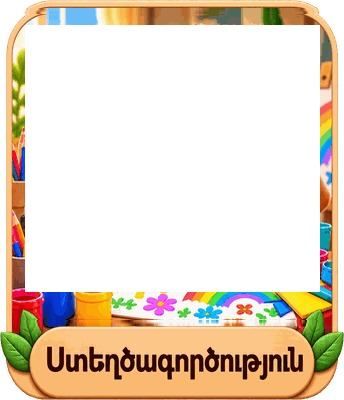
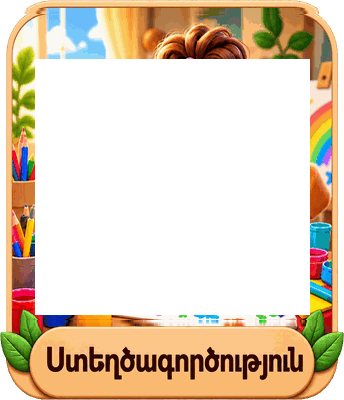
Add files via upload

Changed region(s): [[0.0581, 0.06, 0.9302, 0.81]]

diff --git a/index.html b/index.html
@@ -53,7 +53,7 @@
   </style>
 
 
-  <style id="areg-v27-final-layout">
+  <style id="areg-v28-final-layout">
     /* V18 FINAL: exact equal-size 2x2 section grid */
     .nature-card,.space-card,.mind-card,.create-card{width:344px!important;height:400px!important;}
     .nature-card{left:9px!important;top:260px!important;}
@@ -74,32 +74,32 @@
   <main id="homeScreen" class="screen screen--active" aria-label="Գլխավոր ընտրացանկ">
     <div id="designStage" class="design-stage" role="application" aria-label="Արեգ 3D աշխարհ">
       <button id="avatarButton" class="asset-button avatar-button" aria-label="Փոխել կերպարի նկարը">
-        <img class="asset-img" src="avatar-frame.png?v=27" alt="" draggable="false" />
+        <img class="asset-img" src="avatar-frame.png?v=28" alt="" draggable="false" />
         <img id="savedAvatar" class="saved-avatar" alt="Ընտրված նկար" draggable="false" hidden />
       </button>
 
-      <img class="logo asset-img" src="logo.png?v=27" alt="Արեգ 3D աշխարհ" draggable="false" />
+      <img class="logo asset-img" src="logo.png?v=28" alt="Արեգ 3D աշխարհ" draggable="false" />
 
       <button id="starCounter" class="asset-button star-counter" aria-label="120 աստղ">
-        <img class="asset-img" src="star-counter.png?v=27" alt="120 աստղ" draggable="false" />
+        <img class="asset-img" src="star-counter.png?v=28" alt="120 աստղ" draggable="false" />
       </button>
 
       <button id="settingsButton" class="asset-button settings-button" aria-label="Կարգավորումներ">
-        <img class="asset-img" src="settings.png?v=27" alt="" draggable="false" />
+        <img class="asset-img" src="settings.png?v=28" alt="" draggable="false" />
       </button>
 
       <button class="section-card nature-card" data-section="nature" aria-label="Բնություն">
-        <img class="asset-img" src="nature.png?v=27" alt="Բնություն" draggable="false" />
+        <img class="asset-img" src="nature.png?v=28" alt="Բնություն" draggable="false" />
         <span class="card-layer nature-deer-head" aria-hidden="true"></span>
         <span class="card-layer nature-bird" aria-hidden="true"></span>
         <span class="card-fx nature-glint nature-glint-a" aria-hidden="true"></span>
         <span class="card-fx nature-glint nature-glint-b" aria-hidden="true"></span>
         <span class="nature-water-shimmer" aria-hidden="true"></span>
-        <img class="frame-guard" src="nature-frame-guard.png?v=27" alt="" aria-hidden="true" draggable="false" />
+        <img class="frame-guard" src="nature-frame-guard.png?v=28" alt="" aria-hidden="true" draggable="false" />
         <span class="card-shine-mask" aria-hidden="true"><span class="card-shine-band"></span></span>
       </button>
       <button class="section-card space-card" data-section="space" aria-label="Տիեզերք">
-        <img class="asset-img" src="space.png?v=27" alt="Տիեզերք" draggable="false" />
+        <img class="asset-img" src="space.png?v=28" alt="Տիեզերք" draggable="false" />
         <span class="card-layer space-earth" aria-hidden="true"></span>
         <span class="card-layer space-saturn" aria-hidden="true"></span>
         <span class="card-layer space-astronaut" aria-hidden="true"></span>
@@ -107,42 +107,39 @@
         <span class="space-twinkle st1" aria-hidden="true"></span>
         <span class="space-twinkle st2" aria-hidden="true"></span>
         <span class="space-twinkle st3" aria-hidden="true"></span>
-        <img class="frame-guard" src="space-frame-guard.png?v=27" alt="" aria-hidden="true" draggable="false" />
+        <img class="frame-guard" src="space-frame-guard.png?v=28" alt="" aria-hidden="true" draggable="false" />
         <span class="card-shine-mask" aria-hidden="true"><span class="card-shine-band"></span></span>
       </button>
       <button class="section-card mind-card" data-section="mind" aria-label="Մտքի խաղեր">
-        <img class="asset-img" src="mind.png?v=27" alt="Մտքի խաղեր" draggable="false" />
-        <span class="mind-bulb-glow" aria-hidden="true"></span>
-        <span class="card-layer mind-bulb" aria-hidden="true"></span>
+        <img class="asset-img" src="mind.png?v=28" alt="Մտքի խաղեր" draggable="false" />
         <span class="card-layer mind-blocks" aria-hidden="true"></span>
         <span class="mind-thought-dot md1" aria-hidden="true"></span>
         <span class="mind-thought-dot md2" aria-hidden="true"></span>
-        <img class="frame-guard" src="mind-frame-guard.png?v=27" alt="" aria-hidden="true" draggable="false" />
+        <img class="frame-guard" src="mind-frame-guard.png?v=28" alt="" aria-hidden="true" draggable="false" />
         <span class="card-shine-mask" aria-hidden="true"><span class="card-shine-band"></span></span>
       </button>
       <button class="section-card create-card" data-section="create" aria-label="Ստեղծագործություն">
-        <img class="asset-img" src="create.png?v=27" alt="Ստեղծագործություն" draggable="false" />
-        <span class="card-layer create-brush" aria-hidden="true"></span>
+        <img class="asset-img" src="create.png?v=28" alt="Ստեղծագործություն" draggable="false" />
         <span class="card-layer create-dog" aria-hidden="true"></span>
         <span class="create-paint-spark cp1" aria-hidden="true"></span>
         <span class="create-paint-spark cp2" aria-hidden="true"></span>
         <span class="create-rainbow-glow" aria-hidden="true"></span>
-        <img class="frame-guard" src="create-frame-guard.png?v=27" alt="" aria-hidden="true" draggable="false" />
+        <img class="frame-guard" src="create-frame-guard.png?v=28" alt="" aria-hidden="true" draggable="false" />
         <span class="card-shine-mask" aria-hidden="true"><span class="card-shine-band"></span></span>
       </button>
       <button class="section-card magic-card" data-section="magic" aria-label="Կախարդական աստղի սենյակ">
         <span class="magic-glow" aria-hidden="true"></span>
-        <img class="asset-img" src="magic.png?v=27" alt="Կախարդական աստղի սենյակ" draggable="false" />
+        <img class="asset-img" src="magic.png?v=28" alt="Կախարդական աստղի սենյակ" draggable="false" />
         <span class="card-layer magic-star-float" aria-hidden="true"></span>
         <span class="magic-spark ms1" aria-hidden="true"></span>
         <span class="magic-spark ms2" aria-hidden="true"></span>
         <span class="magic-spark ms3" aria-hidden="true"></span>
         <span class="magic-book-glow" aria-hidden="true"></span>
-        <img class="frame-guard" src="magic-frame-guard.png?v=27" alt="" aria-hidden="true" draggable="false" />
+        <img class="frame-guard" src="magic-frame-guard.png?v=28" alt="" aria-hidden="true" draggable="false" />
         <span class="card-shine-mask" aria-hidden="true"><span class="card-shine-band"></span></span>
       </button>
 
-      <img class="bottom-landscape asset-img" src="bottom-landscape.png?v=27" alt="" draggable="false" />
+      <img class="bottom-landscape asset-img" src="bottom-landscape.png?v=28" alt="" draggable="false" />
     </div>
   </main>
 
@@ -200,7 +197,7 @@
 
   <div id="toast" class="toast" role="status" aria-live="polite"></div>
 
-  <audio id="menuMusic" src="menu-music.mp3?v=27" loop preload="auto"></audio>
+  <audio id="menuMusic" src="menu-music.mp3?v=28" loop preload="auto"></audio>
 <script>
     (function(){
       const v = encodeURIComponent(window.__AREG_BUILD || String(Date.now()));

diff --git a/styles.css b/styles.css
@@ -204,7 +204,7 @@ html.ios-standalone .modal {
 
 /* Nature — bird gently glides, waterfall catches light, tiny pollen glints. */
 .nature-bird {
-  background-image:url('nature.png?v=27');
+  background-image:url('nature.png?v=28');
   clip-path:polygon(70% 7%, 100% 7%, 100% 35%, 72% 34%);
   transform-origin:84% 20%;
   animation:natureBirdFloat 4.8s ease-in-out infinite;
@@ -229,25 +229,25 @@ html.ios-standalone .modal {
 
 /* Space — astronaut + planets float independently; rocket drifts; stars twinkle. */
 .space-earth {
-  background-image:url('space.png?v=27');
+  background-image:url('space.png?v=28');
   clip-path:circle(14% at 18% 21%);
   transform-origin:18% 21%;
   animation:spacePlanetA 7.4s ease-in-out infinite;
 }
 .space-saturn {
-  background-image:url('space.png?v=27');
+  background-image:url('space.png?v=28');
   clip-path:ellipse(26% 17% at 77% 17%);
   transform-origin:77% 17%;
   animation:spacePlanetB 8.2s ease-in-out infinite;
 }
 .space-astronaut {
-  background-image:url('space.png?v=27');
+  background-image:url('space.png?v=28');
   clip-path:polygon(18% 20%,74% 18%,76% 72%,24% 78%,12% 52%);
   transform-origin:47% 48%;
   animation:spaceAstronaut 5.8s ease-in-out infinite;
 }
 .space-rocket {
-  background-image:url('space.png?v=27');
+  background-image:url('space.png?v=28');
   clip-path:polygon(71% 31%,100% 29%,100% 61%,74% 60%);
   transform-origin:86% 46%;
   animation:spaceRocket 4.6s ease-in-out infinite;
@@ -262,13 +262,13 @@ html.ios-standalone .modal {
 
 /* Mind games — idea bulb pulses, blocks bob very gently. */
 .mind-bulb {
-  background-image:url('mind.png?v=27');
+  background-image:url('mind.png?v=28');
   clip-path:circle(15% at 55% 19%);
   transform-origin:55% 19%;
   animation:mindBulb 2.9s ease-in-out infinite;
 }
 .mind-blocks {
-  background-image:url('mind.png?v=27');
+  background-image:url('mind.png?v=28');
   clip-path:polygon(54% 19%,100% 17%,100% 75%,57% 78%);
   transform-origin:78% 54%;
   animation:mindBlocks 4.9s ease-in-out infinite;
@@ -281,13 +281,13 @@ html.ios-standalone .modal {
 
 /* Creativity — brush moves, puppy has a tiny happy bob, colors sparkle. */
 .create-brush {
-  background-image:url('create.png?v=27');
+  background-image:url('create.png?v=28');
   clip-path:polygon(18% 12%,42% 11%,46% 58%,20% 59%);
   transform-origin:31% 45%;
   animation:createBrush 3.8s ease-in-out infinite;
 }
 .create-dog {
-  background-image:url('create.png?v=27');
+  background-image:url('create.png?v=28');
   clip-path:ellipse(25% 25% at 78% 50%);
   transform-origin:78% 55%;
   animation:createDog 5.2s ease-in-out infinite;
@@ -302,7 +302,7 @@ html.ios-standalone .modal {
 
 /* Magic room — the main star gently floats; book + hanging stars breathe with light. */
 .magic-star-float {
-  background-image:url('magic.png?v=27');
+  background-image:url('magic.png?v=28');
   clip-path:polygon(35% 7%,64% 7%,66% 60%,35% 60%);
   transform-origin:50% 34%;
   animation:magicStarFloat 4.4s ease-in-out infinite;
@@ -338,7 +338,7 @@ html.ios-standalone .modal {
 
 
 /* ================= V26 stronger premium motion ================= */
-.nature-deer-head{background-image:url('nature.png?v=27');clip-path:polygon(8% 14%,58% 14%,59% 58%,18% 58%);transform-origin:34% 58%;animation:v26Deer 4.8s ease-in-out infinite}
+.nature-deer-head{background-image:url('nature.png?v=28');clip-path:polygon(8% 14%,58% 14%,59% 58%,18% 58%);transform-origin:34% 58%;animation:v26Deer 4.8s ease-in-out infinite}
 @keyframes v26Deer{0%,100%{transform:translate3d(-1px,0,0) rotate(-1.8deg)}25%{transform:translate3d(1px,-1px,0) rotate(.4deg)}50%{transform:translate3d(3px,0,0) rotate(2.1deg)}75%{transform:translate3d(1px,1px,0) rotate(.2deg)}}
 .nature-bird{animation:v26Bird 4.1s ease-in-out infinite}
 @keyframes v26Bird{0%,100%{transform:translate3d(0,1px,0) rotate(-.7deg)}50%{transform:translate3d(-4px,-5px,0) rotate(1.2deg)}}
@@ -419,3 +419,37 @@ html.ios-standalone .modal {
 
 /* Sheen may pass over the static frame without moving it. */
 .card-shine-mask { z-index:6 !important; }
+
+
+/* ================= V28 lower-frame cleanup =================
+   Mind bulb stays fully static/natural.
+   Creativity brush stays static; puppy animation remains.
+   Lower card top frames are protected by deeper static guards.
+   ========================================================= */
+.mind-bulb-glow,
+.mind-bulb,
+.create-brush {
+  display:none !important;
+  animation:none !important;
+  opacity:0 !important;
+}
+
+.mind-card .frame-guard,
+.create-card .frame-guard {
+  z-index:7 !important;
+}
+
+/* Keep premium sheen visible, but below the protected wooden frame
+   on the two repaired cards so the border never looks chipped. */
+.mind-card .card-shine-mask,
+.create-card .card-shine-mask {
+  z-index:6 !important;
+}
+
+/* Slightly tighten remaining lower-card moving layers. */
+.mind-blocks {
+  clip-path:polygon(57% 21%,94% 21%,94% 72%,59% 75%) !important;
+}
+.create-dog {
+  clip-path:ellipse(17% 18% at 78% 49%) !important;
+}

diff --git a/service-worker.js b/service-worker.js
@@ -1,11 +1,11 @@
-const CACHE = 'areg-kids-game-v27';
+const CACHE = 'areg-kids-game-v28';
 const CORE = [
   './launcher.html',
   './', './index.html', './styles.css', './app.js', './v9-fix.js',
-  './avatar-frame.png?v=27', './logo.png?v=27', './star-counter.png?v=27', './settings.png?v=27',
-  './nature.png?v=27', './space.png?v=27', './mind.png?v=27', './create.png?v=27', './magic.png?v=27', './bottom-landscape.png?v=27',
-  './menu-music.mp3?v=27',
-  './nature-frame-guard.png?v=27', './space-frame-guard.png?v=27', './mind-frame-guard.png?v=27', './create-frame-guard.png?v=27', './magic-frame-guard.png?v=27'
+  './avatar-frame.png?v=28', './logo.png?v=28', './star-counter.png?v=28', './settings.png?v=28',
+  './nature.png?v=28', './space.png?v=28', './mind.png?v=28', './create.png?v=28', './magic.png?v=28', './bottom-landscape.png?v=28',
+  './menu-music.mp3?v=28',
+  './nature-frame-guard.png?v=28', './space-frame-guard.png?v=28', './mind-frame-guard.png?v=28', './create-frame-guard.png?v=28', './magic-frame-guard.png?v=28'
 ];
 
 self.addEventListener('install', event => {

diff --git a/launcher.html b/launcher.html
@@ -16,7 +16,7 @@
   const stamp = Date.now();
   try { if ('serviceWorker' in navigator) { const regs = await navigator.serviceWorker.getRegistrations(); await Promise.all(regs.map(r => r.unregister())); } } catch (_) {}
   try { if ('caches' in window) { const keys = await caches.keys(); await Promise.all(keys.map(k => caches.delete(k))); } } catch (_) {}
-  location.replace('./?kiosk=v27-' + stamp + '&hardrefresh=1');
+  location.replace('./?kiosk=v28-' + stamp + '&hardrefresh=1');
 })();
 </script>
 </body>
